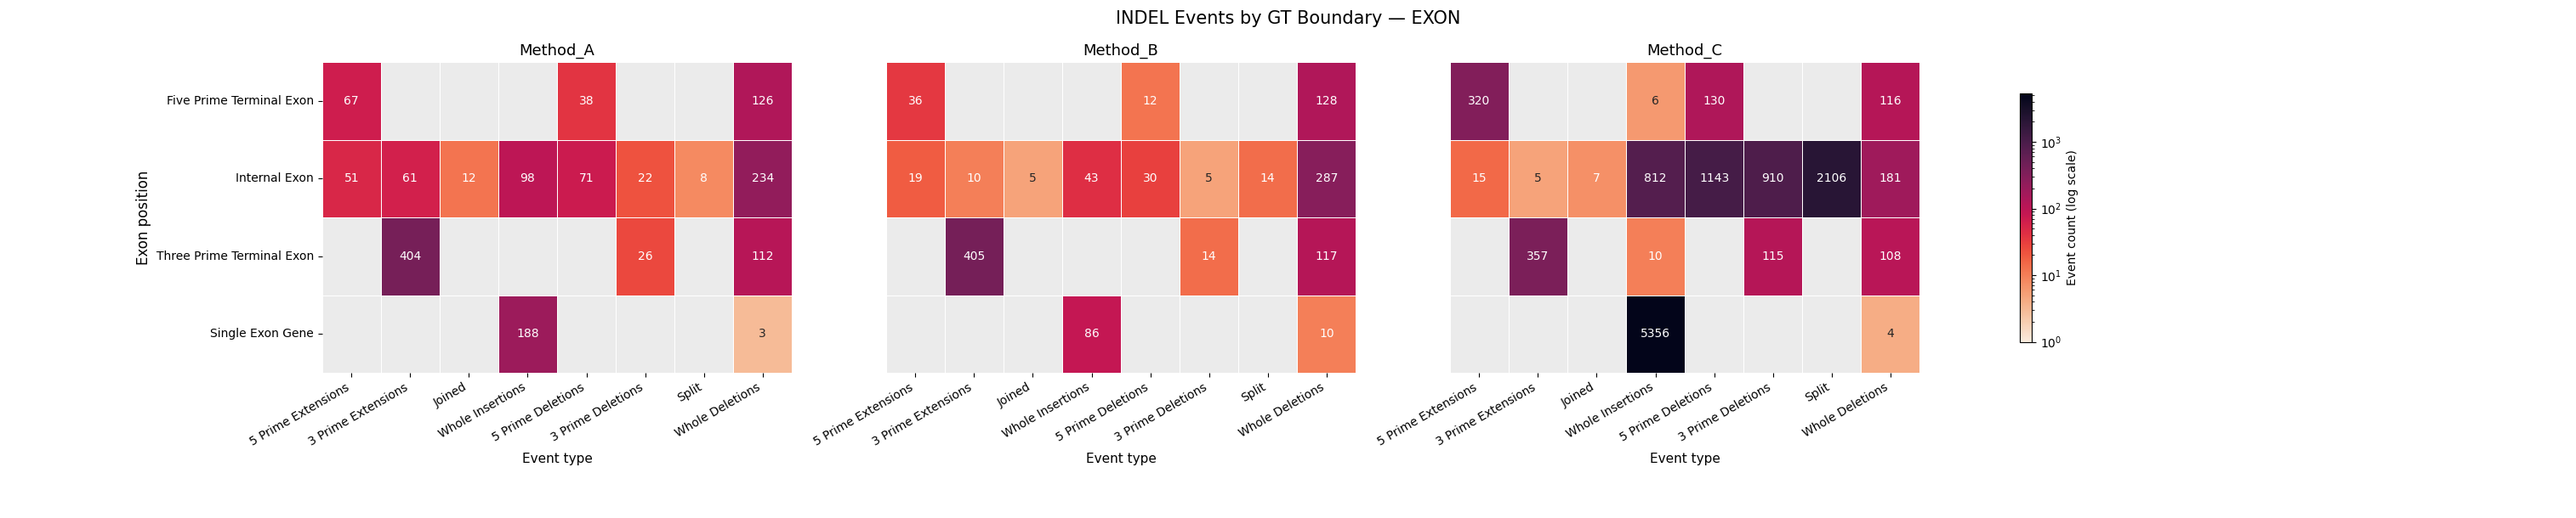
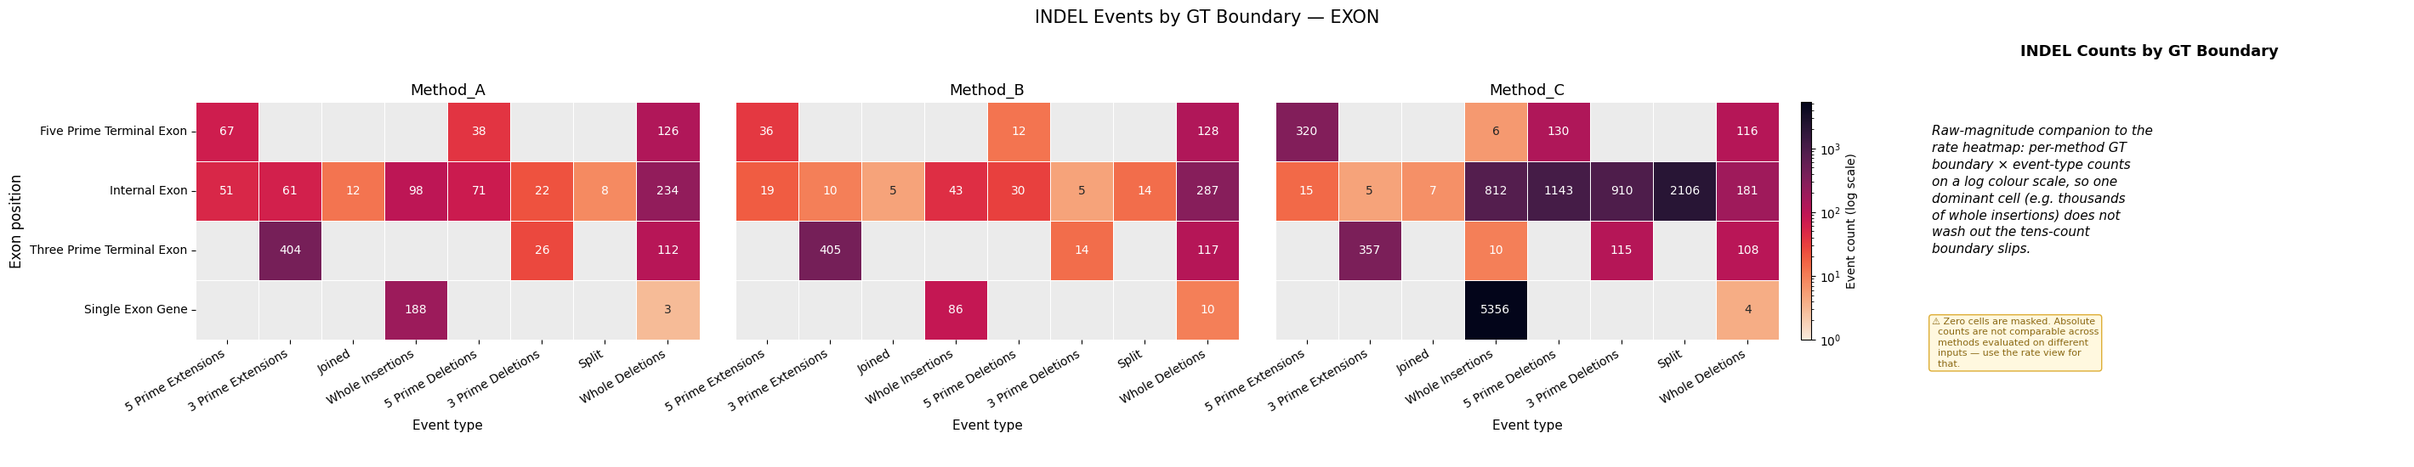
fix the plottong of indel rate plots

diff --git a/src/dna_segmentation_benchmark/plotting/metrics/indel.py b/src/dna_segmentation_benchmark/plotting/metrics/indel.py
@@ -236,12 +236,25 @@ def _per_method_boundary_heatmap(
     boundary_labels = [_pretty_boundary(b) for b in boundaries]
     event_labels = [_pretty_event(e) for e in events]
 
-    panel_w = max(5.0, 1.2 * len(events))
-    height = max(3.6, 0.8 * len(boundaries) + 1.6)
-    fig_width = panel_w * len(methods) + 1.5
+    # Cell-based sizing: size the figure from a fixed square cell plus fixed
+    # inch margins. The old width-per-event (1.2 in) made each panel ~9.6 in
+    # wide, so cells stretched into wide rectangles and the default wspace left
+    # ~2 in gaps between panels — a very flat, white-space-heavy strip.
+    n_ev, n_b, n_m = len(events), len(boundaries), len(methods)
+    cell_in = 0.7  # side length of one heatmap cell
+    left_in = 2.3  # long y-tick labels on the first panel
+    right_in = 1.4  # colourbar + its label
+    top_in = 1.2  # suptitle + per-panel titles
+    bottom_in = 1.5  # rotated x-tick labels + axis label
+    wspace_in = 0.4  # gap between method panels
+
+    panel_w_in = cell_in * n_ev
+    fig_width = left_in + panel_w_in * n_m + wspace_in * (n_m - 1) + right_in
+    height = bottom_in + cell_in * n_b + top_in
     if metadata is not None:
-        # The pictogram panel claims ~22% of the final width; widen the figure so
-        # the heatmaps and colourbar keep their size instead of being squeezed.
+        # The pictogram panel claims ~25% of the final width; widen the figure so
+        # the heatmaps and colourbar keep their size after _add_pictogram_panel
+        # rescales them into the left content area.
         fig_width /= 0.75
     # Note: no sharey — a shared y-axis lets a later panel's ``yticklabels=False``
     # clear the boundary labels on panel 0.  All panels have identical row counts,
@@ -281,10 +294,20 @@ def _per_method_boundary_heatmap(
         plt.setp(ax.get_xticklabels(), rotation=30, ha="right")
         plt.setp(ax.get_yticklabels(), rotation=0)
 
-    # subplots_adjust instead of tight_layout: tight_layout re-expands axes after
-    # the colorbar has already stolen space, pushing the bar into the last panel.
-    fig.subplots_adjust(bottom=0.2, top=0.84)
-    fig.colorbar(axes[-1].collections[0], ax=list(axes), location="right", shrink=0.8, label=cbar_label)
+    # Explicit inch-based margins (converted to fractions) keep the panels tight
+    # and the cells square; subplots_adjust because tight_layout would re-expand
+    # the axes after the colourbar reserved its margin.
+    left = left_in / fig_width
+    right = 1 - right_in / fig_width
+    bottom = bottom_in / height
+    top = 1 - top_in / height
+    fig.subplots_adjust(left=left, right=right, bottom=bottom, top=top, wspace=wspace_in / panel_w_in)
+
+    # Dedicated colourbar axes in the reserved right margin. fig.colorbar(
+    # ax=list(axes)) would instead steal width from the panels and squash the
+    # square cells.
+    cbar_ax = fig.add_axes([right + 0.012, bottom, 0.16 / fig_width, top - bottom])
+    fig.colorbar(axes[-1].collections[0], cax=cbar_ax, label=cbar_label)
     fig.suptitle(f"{title} — {class_name}", fontsize=15)
     _add_pictogram_panel(fig, metadata, logger=logger)
 
